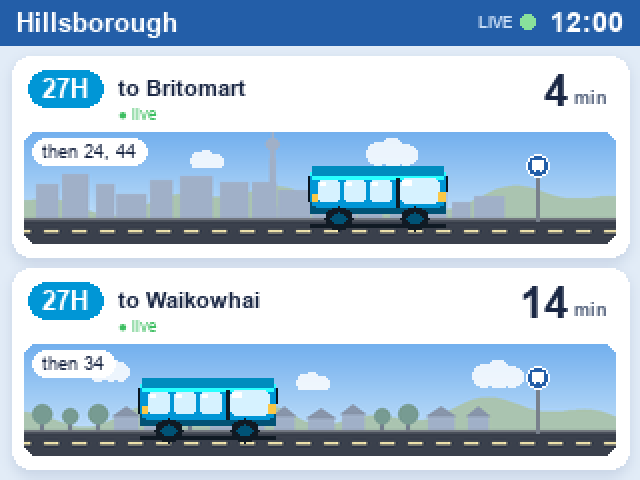
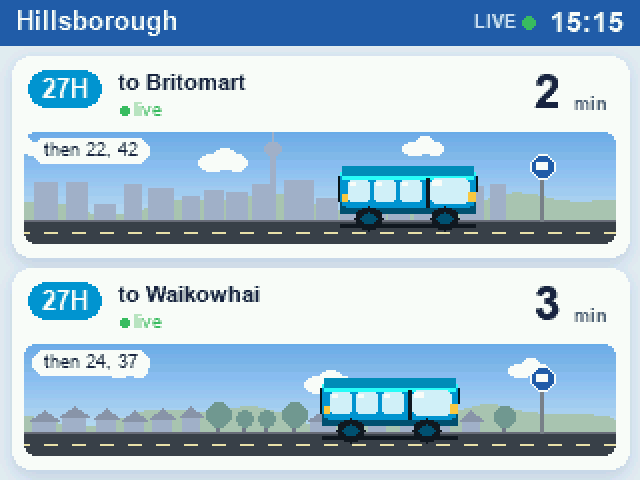
Emulator-made screenshots, WiFi reasoning, night crash + legend fixes
- tools/emulate.py runs the board's own code (gfx, busscreen,
  railscreen, atdata) on the PC with live data and saves what the ESP32
  draws; docs/ screenshots regenerated with it
- busscreen: the night sky's crescent converted its colour twice and
  raised TypeError -- the board would have crashed at nightfall
- railscreen: legend counts were 5px high and squared off the card's
  rounded corner
- README/comments: USB because the 2.4 GHz WiFi in the house doesn't
  reach the board

diff --git a/tools/emulate.py b/tools/emulate.py
@@ -1,0 +1,181 @@
+# Run the board's own code (atdata, busscreen, railscreen, gfx) on the PC with
+# live AT data and save what the ESP32 would draw. The panel is write-only,
+# so this is how the screenshots in docs/ are made -- and a way to preview
+# changes without the hardware.
+#
+#   python tools/emulate.py              -> docs/bus-day.png, bus-dusk.png,
+#                                           bus-night.png, rail.png
+#   python tools/emulate.py --out DIR    -> somewhere else
+#
+# MicroPython-only pieces are shimmed: framebuf (drawn with numpy/Pillow),
+# the viper decorator (plain Python runs the same code), the 2000-based
+# clock, and net (fetches directly instead of through netproxy).
+import builtins, calendar, json, os, sys, time as _time, types, urllib.request
+import numpy as np
+from PIL import Image, ImageDraw
+
+ROOT = os.path.abspath(os.path.join(os.path.dirname(__file__), ".."))
+sys.path.insert(0, ROOT)
+os.chdir(ROOT)                       # the board code opens "assets/..."
+UNIX = 946684800
+
+
+# ---------- micropython ----------
+mp = types.ModuleType("micropython")
+mp.viper = mp.native = lambda f: f
+mp.const = lambda x: x
+sys.modules["micropython"] = mp
+builtins.ptr8 = builtins.ptr16 = object          # viper's annotations
+
+
+# ---------- framebuf (RGB565, stored little-endian like the ESP32) ----------
+fbm = types.ModuleType("framebuf")
+fbm.RGB565 = 1
+
+
+class FrameBuffer:
+    def __init__(self, buf, w, h, fmt):
+        self.a = np.frombuffer(buf, dtype="<u2", count=w * h).reshape(h, w)
+        self.w, self.h = w, h
+
+    def fill(self, c):
+        self.a[:, :] = c
+
+    def fill_rect(self, x, y, w, h, c):
+        x0, y0 = max(0, x), max(0, y)
+        x1, y1 = min(self.w, x + w), min(self.h, y + h)
+        if x1 > x0 and y1 > y0:
+            self.a[y0:y1, x0:x1] = c
+
+    def hline(self, x, y, w, c):
+        self.fill_rect(x, y, w, 1, c)
+
+    def pixel(self, x, y, c=None):
+        if 0 <= x < self.w and 0 <= y < self.h:
+            if c is None:
+                return int(self.a[y, x])
+            self.a[y, x] = c
+
+    def _mask(self, draw):
+        m = Image.new("L", (self.w, self.h), 0)
+        draw(ImageDraw.Draw(m))
+        return np.asarray(m) > 127
+
+    def ellipse(self, x, y, xr, yr, c, f=False, m=0xF):
+        mask = self._mask(lambda d: d.ellipse((x - xr, y - yr, x + xr, y + yr), fill=255))
+        self.a[mask] = c
+
+    def poly(self, x, y, coords, c, f=False):
+        pts = [(x + coords[i], y + coords[i + 1]) for i in range(0, len(coords), 2)]
+        self.a[self._mask(lambda d: d.polygon(pts, fill=255))] = c
+
+
+fbm.FrameBuffer = FrameBuffer
+sys.modules["framebuf"] = fbm
+
+
+# ---------- the ESP32's clock (seconds since 2000-01-01) ----------
+bt = types.ModuleType("time")
+bt.time = lambda: int(_time.time()) - UNIX
+bt.gmtime = lambda t=None: tuple(_time.gmtime((bt.time() if t is None else t) + UNIX))[:8]
+bt.mktime = lambda tm: calendar.timegm(tuple(tm[:6]) + (0, 0, 0)) - UNIX
+bt.ticks_ms = lambda: int(_time.monotonic() * 1000)
+bt.ticks_diff = lambda a, b: a - b
+bt.ticks_add = lambda a, b: a + b
+bt.sleep_ms = lambda ms: _time.sleep(ms / 1000)
+
+
+# ---------- net: fetch directly ----------
+import config as C
+nm = types.ModuleType("net")
+nm.last_ok, nm.idle = 0, None
+
+
+def _request(url, on_chunk=None):
+    req = urllib.request.Request(url, headers={"Ocp-Apim-Subscription-Key": C.AT_API_KEY,
+                                               "Accept": "application/json"})
+    try:
+        with urllib.request.urlopen(req, timeout=25) as r:
+            st, body = r.status, r.read()
+    except urllib.error.HTTPError as e:
+        st, body = e.code, e.read()
+    if on_chunk is None:
+        return st, bytearray(body)
+    for i in range(0, len(body), 1024):
+        on_chunk(memoryview(body)[i:i + 1024])
+    return st, len(body)
+
+
+nm.request = _request
+sys.modules["net"] = nm
+
+
+def _import_board():
+    """Import the board modules with the MicroPython clock swapped in."""
+    real = sys.modules["time"]
+    sys.modules["time"] = bt
+    try:
+        import gfx, atdata, busscreen, railscreen
+    finally:
+        sys.modules["time"] = real
+    return gfx, atdata, busscreen, railscreen
+
+
+# ---------- the panel ----------
+class Panel:
+    def __init__(self):
+        self.px = np.zeros((240, 320), dtype=np.uint16)
+
+    def blit(self, buf, x, y, w, h):
+        self.px[y:y + h, x:x + w] = np.frombuffer(bytes(buf), dtype=">u2").reshape(h, w)
+
+    def fill_rect(self, x, y, w, h, c):
+        self.px[y:y + h, x:x + w] = c
+
+    def image(self, scale=2):
+        p = self.px.astype(np.uint32)
+        rgb = np.dstack(((p >> 11) << 3, ((p >> 5) & 63) << 2, (p & 31) << 3)).astype(np.uint8)
+        img = Image.fromarray(rgb, "RGB")
+        return img.resize((320 * scale, 240 * scale), Image.NEAREST)
+
+
+def main():
+    out = sys.argv[sys.argv.index("--out") + 1] if "--out" in sys.argv else os.path.join(ROOT, "docs")
+    os.makedirs(out, exist_ok=True)
+    gfx, atdata, busscreen, railscreen = _import_board()
+    fonts = {n: gfx.Font("assets/%s.fnt" % n)
+             for n in ("big", "clock", "title", "head", "small", "smallb")}
+    pool = bytearray(38 * 1024)
+
+    stops = [atdata.Stop(w) for w in C.WATCHES[:4]]
+    for s in stops:
+        s.update()
+    trains = atdata.Trains()
+    trains.update()
+    lanes = [s.lane() for s in stops]
+    print("buses:", [(l[0], l[1], [int(d[0] // 60) for d in l[2]]) for l in lanes])
+    print("trains:", trains.counts)
+
+    # the bus screen now (live), and the same data under dusk and night skies
+    now_hour, now_clock = atdata.hour(), atdata.clock()
+    shots = [("bus-day", now_hour if 8.5 <= now_hour <= 16.5 else 12.0, None),
+             ("bus-dusk", 18.6, "18:36"), ("bus-night", 22.2, "22:12")]
+    for name, hour, clk in shots:
+        panel = Panel()
+        scr = busscreen.BusScreen(panel, fonts, pool, len(stops), getattr(C, "LOCATION", "Auckland"))
+        scr.start()
+        scr.frame(lanes, clk or now_clock, hour, False, 7.5)
+        panel.image().save(os.path.join(out, name + ".png"))
+        print("saved", name)
+
+    panel = Panel()
+    scr = railscreen.RailScreen(panel, fonts, pool)
+    scr.start()
+    trains.t_moved -= 60_000                 # glide finished: markers at their fixes
+    scr.frame(trains.positions(), trains.counts, now_clock, False)
+    panel.image().save(os.path.join(out, "rail.png"))
+    print("saved rail")
+
+
+if __name__ == "__main__":
+    main()

diff --git a/railscreen.py b/railscreen.py
@@ -77,12 +77,14 @@ class RailScreen:
     def _legend(self, counts, stale):
         x0, y0, x1, y1 = LEG
         f = self.f["smallb"]
-        cv = gfx.Canvas(memoryview(self.pool)[:24 * 40 * 2], 24, 40)
+        # stays clear of the card's rounded corner (radius 6)
+        cv = gfx.Canvas(memoryview(self.pool)[:20 * 40 * 2], 20, 40)
         cv.fill(0xFFFF)
         for i, li in enumerate((1, 0, 2)):          # S-C, E-W, O-W, as baked
             n = "-" if counts is None else str(counts[li])
-            cv.text(f, n, 22 - f.width(n), 3 + i * 13 - 5, NAVY)
-        self.tft.blit(cv.buf, x1 - 26, y0 + 1, 24, 40)
+            # centred on the baked rows at y0 + 9 + 13i
+            cv.text(f, n, 18 - f.width(n), 8 + i * 13 - f.h // 2, NAVY)
+        self.tft.blit(cv.buf, x1 - 26, y0 + 1, 20, 40)
         cv = gfx.Canvas(memoryview(self.pool)[:110 * 12 * 2], 110, 12)
         cv.fill(0xFFFF)
         cv.ellipse(3, 6, 2, 2, WARN if stale else LIVE)

diff --git a/main.py b/main.py
@@ -1,6 +1,7 @@
 # AT departure board -- everything runs here on the ESP32: fetching, parsing,
-# placing trains and drawing. The PC is only the internet connection
-# (netproxy.py relays HTTP over the USB cable, since the house WiFi is weak).
+# placing trains and drawing. The 2.4 GHz WiFi in the house doesn't reach
+# the board, so it goes online over USB instead: the PC is only its internet
+# connection (netproxy.py relays HTTP over the cable).
 #
 # BOOT button: switch between the bus stop and the live train map.
 # No PC for SLEEP_AFTER_MIN minutes: screen off, deep sleep. netproxy.py

diff --git a/busscreen.py b/busscreen.py
@@ -146,7 +146,7 @@ class Lane:
             fb.pixel(x, y, 0xFFFF)
         if nt:
             cv.ellipse(sw - 55, 10, 5, 5, rgb(250, 244, 220))
-            cv.ellipse(sw - 52, 9, 5, 5, rgb(*top))
+            cv.ellipse(sw - 52, 9, 5, 5, top)          # crescent: cut with the sky colour
         else:
             for k in range(3):                       # drifting clouds
                 span = sw + 30

diff --git a/netproxy.py b/netproxy.py
@@ -1,4 +1,5 @@
-# The PC's only job: be the ESP32's internet connection over USB.
+# The PC's only job: be the ESP32's internet connection over USB. The 2.4 GHz
+# WiFi in the house doesn't reach the board, so it uses the USB cable instead.
 #
 #   python netproxy.py            (leave it running; Ctrl+C to stop)
 #   python netproxy.py -v         also log every line the board sends

diff --git a/README.md b/README.md
@@ -5,9 +5,13 @@ network on an ESP32 with a 2.0" ST7789 colour display (GMT020-02, 320x240).
 
 **The ESP32 does all the work**: it fetches from the AT API, parses the
 responses, works out countdowns, snaps every train's GPS position onto the
-map, and draws both screens. The PC is only its internet connection:
-`netproxy.py` relays HTTP requests over the USB cable, for houses where the
-2.4 GHz WiFi doesn't reach.
+map, and draws both screens.
+
+**Why USB instead of WiFi:** the ESP32 only has 2.4 GHz WiFi, and the
+2.4 GHz WiFi in my house doesn't reach where the board sits. So I used USB:
+the PC acts as the board's internet connection and nothing more.
+`netproxy.py` relays HTTP requests over the USB cable. All the logic and
+drawing stays on the ESP32.
 
 | Bus stop (day) | Live train map |
 |---|---|
@@ -104,8 +108,10 @@ with no window, logs to `netproxy.log`, and only one copy runs at a time.
   batches of 200, because a single 1000-id URL is a 6 KB string the
   fragmented heap can't hold.
 - SPI runs at 20 MHz. At 40 MHz, breadboard jumper wires corrupt long fills.
-- The screenshots in `docs/` are PC renders of the same design. The board
-  draws them itself.
+- The screenshots in `docs/` come from `tools/emulate.py`, which runs the
+  board's own drawing code on the PC with live AT data. The panel is
+  write-only, so it can't be read back. They show exactly what the ESP32
+  draws. Run it to preview changes without the hardware.
 
 ## Licence
 
